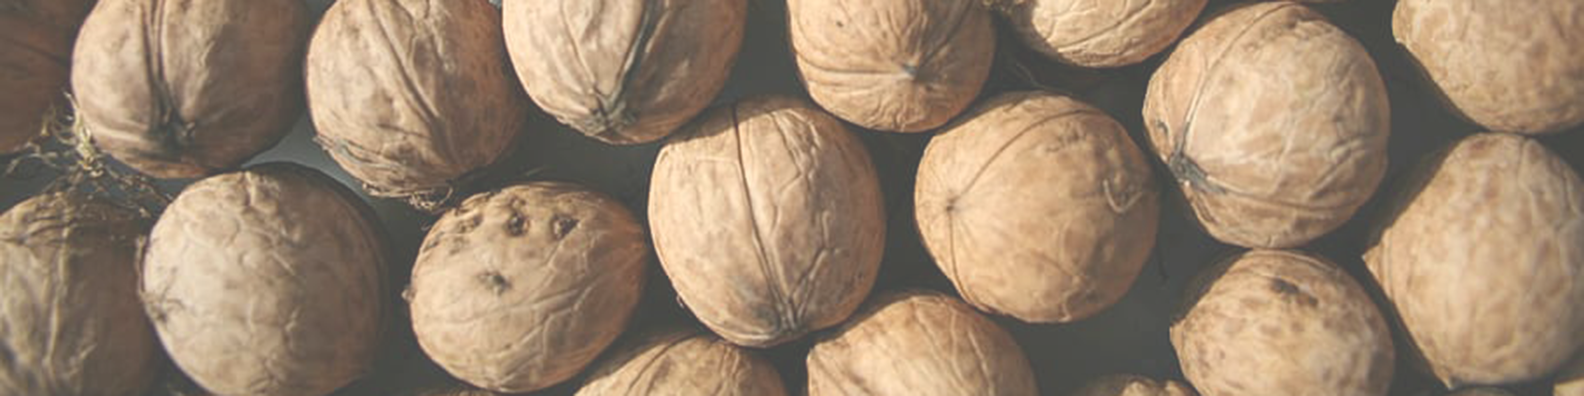
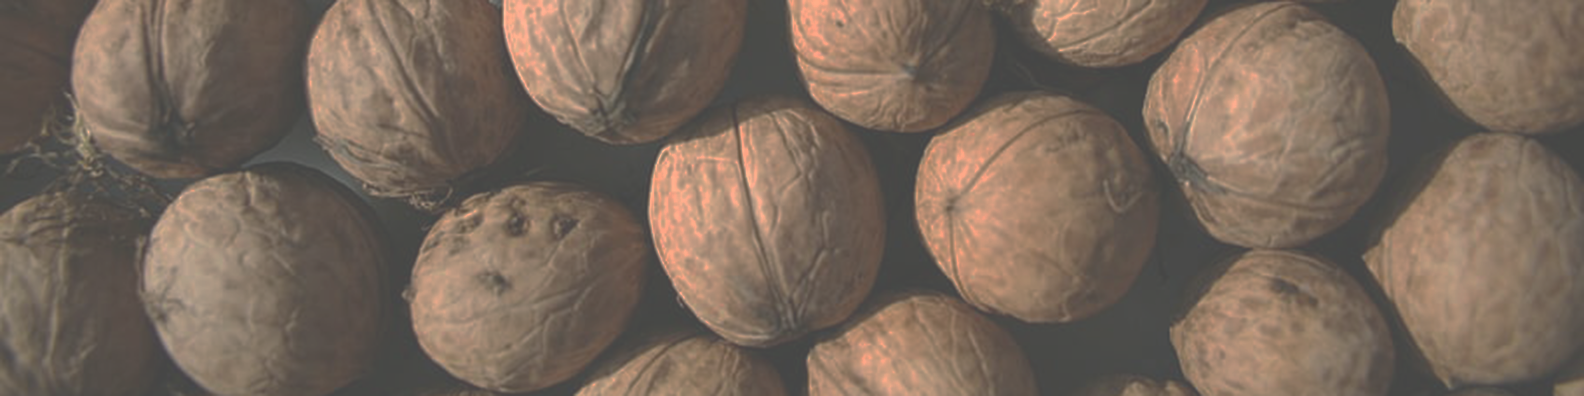
Update to Footer, Logout Button

diff --git a/src/styles/main.css b/src/styles/main.css
@@ -32,6 +32,7 @@ position:relative;
   min-width:300px;
   color:#eee;
 }
+
 .header:after{
   content:"";
   width:100%;
@@ -42,6 +43,7 @@ position:relative;
   z-index:-1;
  background: linear-gradient(to bottom, rgba(149, 126, 204, 0.12) 40%,rgb(21, 24, 54) 100%);
 }
+
 .header:before{
   content:"";
   width:100%;
@@ -60,6 +62,7 @@ position:relative;
   transition:all 0.4s ease-in-out;
   z-index:-2
 }
+
 .header a{
   color:#eee
 }
@@ -395,28 +398,50 @@ input, select, button {
     background-image: url(../images/walnut-nut-harvest-nuts.png); 
     margin: 0 auto 0 auto;
     width: 99%;
-    height:10%;
-    padding: 0 .5em .5em .5em;
+    height:9%;
+    padding: 0 .5em 0 .5em;
     box-sizing: border-box;
     border: 2px solid #ccc;
     border-radius: 4px;
     justify-content: center;
     background-color: "";
-    -moz-box-shadow: 5px 5px 5px rgba(68, 68, 68, 0.6);
-    -webkit-box-shadow: 5px 5px 5px rgba(68, 68, 68, 0.6);
-    box-shadow: 5px 5px 5px rgba(68, 68, 68, 0.6);
+    -moz-box-shadow: 5px 5px 5px rgba(124, 38, 11, 0.8);
+    -webkit-box-shadow: 5px 5px 5px rgba(105, 39, 9, 0.8);
+    box-shadow: 5px 5px 5px rgba(68, 68, 68, 0.8);
+  }
+    
+  .body__footer {
+    display: flex;
+    flex-flow: row;
+      height: auto;
+      width: auto;
+      justify-content: center;
+      font-size: small;
+      color: #f3f3f3;
+  }
+  .footer__text {
+      flex: 1 0 100%;
+      height: auto;
+      width: auto;
+      justify-content: center;
+      text-align: center;
   }
 
-  .container__footer::after{
-    content:"";
-    width: 99%;
-    height:10%;
-    position:absolute;
-    bottom:0;
-    left:0;
-    z-index:-1;
-   background: linear-gradient(to bottom, rgba(50, 41, 68, 0.12) 40%,rgb(77, 38, 25) 100%);
+  .paragraph__footer__copyright {
+      margin: 0;
+      font-size: .8em;
+      justify-items: center;
   }
+
+  
+  .button__footer__logout {
+      display: flex;
+      justify-self: flex-start;
+      width: fit-content;
+      margin: 0 auto 0 auto;
+      font-size: .8vw;
+  }
+
 
 
   .section__itemCard {

diff --git a/src/index.html b/src/index.html
@@ -112,9 +112,15 @@
         
     </main>
 
-    <div class="container__footer">
+    <div class="container__footer ">
         <footer class="footer body__footer">
-        
+            <div class="body__footer">
+                <div class="footer__text">
+                    <button class="button__footer__logout hidden" id="button__footer__logout">Logout</button>
+                    <p class="paragraph__footer__copyright">Copyright  @ 2020 Last Rose of Summer Design & Development - All Rights Reserved</p>
+                    <p class="paragraph__footer__copyright">Patrick Murphy ◈ John Hester ◈ David Bruce</p>
+                </div>
+            </div>
         </footer>
     </div>
     <article id="container"></article>

diff --git a/src/scripts/eventListeners.js b/src/scripts/eventListeners.js
@@ -25,7 +25,17 @@ const listeners = {
 
         })
     },
+    
+    logout () {
+        document.querySelector("#button__footer__logout").addEventListener("click", event => {
+            sessionStorage.removeItem("activeUser")
+            location.reload();
+            document.querySelector("#button__footer__logout").classList.toggle("hidden")
 
+        })
+        
+
+    },
     register () {
         document.querySelector("#registerButton").addEventListener("click", event => {
 

diff --git a/src/scripts/main.js b/src/scripts/main.js
@@ -10,10 +10,12 @@ import listeners from "./eventListeners.js";
 // listeners.enableEditButton()
 
 listeners.login()
+listeners.logout()
 listeners.register()
 const populateComponents = () => {
 
     userWelcome();
+    document.querySelector("#button__footer__logout").classList.toggle("hidden");
     messaging.getAllMessages();
     articleList.getAllArticles();
     eventList.getAllEvents();
